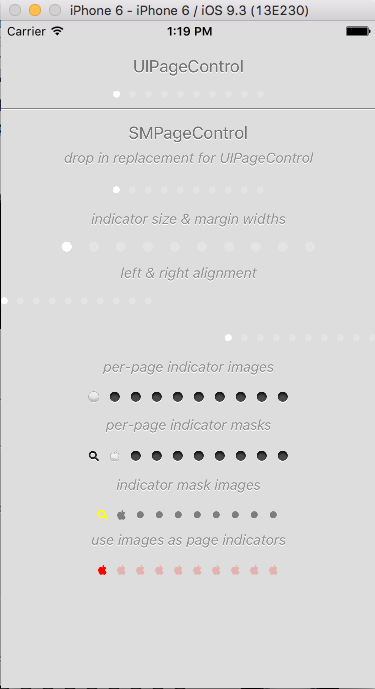
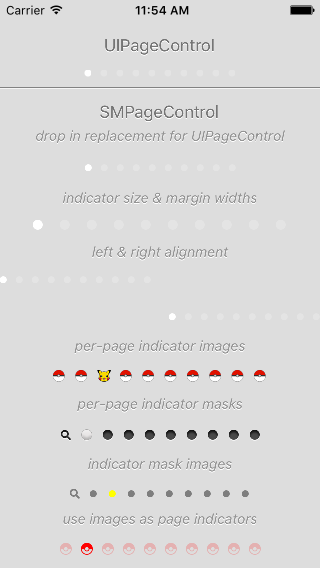
version 1.0.6

diff --git a/SMPageControl-swift/ViewController.swift b/SMPageControl-swift/ViewController.swift
@@ -40,8 +40,8 @@ class ViewController: UIViewController {
         spacePageControl3.alignment = SMPageControlAlignmentLeft;
         spacePageControl4.alignment = SMPageControlAlignmentRight;
         
-        spacePageControl5.setPageIndicatorImage(UIImage(named: "pageDot")!)
-        spacePageControl5.setCurrentPageIndicatorImage(UIImage(named: "currentPageDot")!)
+        spacePageControl5.setPageIndicatorImage(UIImage(named: "pokemen_color")!)
+        spacePageControl5.setCurrentPageIndicatorImage(UIImage(named: "pikatsho")!)
      
         spacePageControl6.setPageIndicatorImage(UIImage(named: "pageDot")!)
         spacePageControl6.setCurrentPageIndicatorImage(UIImage(named: "currentPageDot")!)
@@ -49,20 +49,17 @@ class ViewController: UIViewController {
         spacePageControl6.setCurrentImage(UIImage(named: "currentSearchDot")!,pageIndex: 0)
     
         spacePageControl6.setImage(UIImage(named: "pageDot")!, pageIndex: 1)
-        spacePageControl6.setCurrentImage(UIImage(named: "currentAppleDot")!,pageIndex: 1)
         spacePageControl6.setName("Search", pageIndex: 0)
-        spacePageControl6.setName("Apple", pageIndex: 1)
         spacePageControl6.setCurrentPage(1)
         
  
         spacePageControl7.pageIndicatorTintColor = UIColor.darkGrayColor().colorWithAlphaComponent(0.7)
         spacePageControl7.currentPageIndicatorTintColor = UIColor.yellowColor()
-        spacePageControl7.setImageMask(UIImage(named: "appleMask")!, pageIndex: 1)
         spacePageControl7.setImageMask(UIImage(named: "searchMask")!, pageIndex: 0)
 
         spacePageControl8.pageIndicatorTintColor = UIColor.redColor().colorWithAlphaComponent(0.2)
         spacePageControl8.currentPageIndicatorTintColor = UIColor.redColor()
-        spacePageControl8.setPageIndicatorMaskImage(UIImage(named: "appleMask")!)
+        spacePageControl8.setPageIndicatorMaskImage(UIImage(named: "Pokemon")!)
         
         
         spacePageControl1.addTarget(self, action: #selector(ViewController.spacePageControl(_:)), forControlEvents:  UIControlEvents.ValueChanged)
